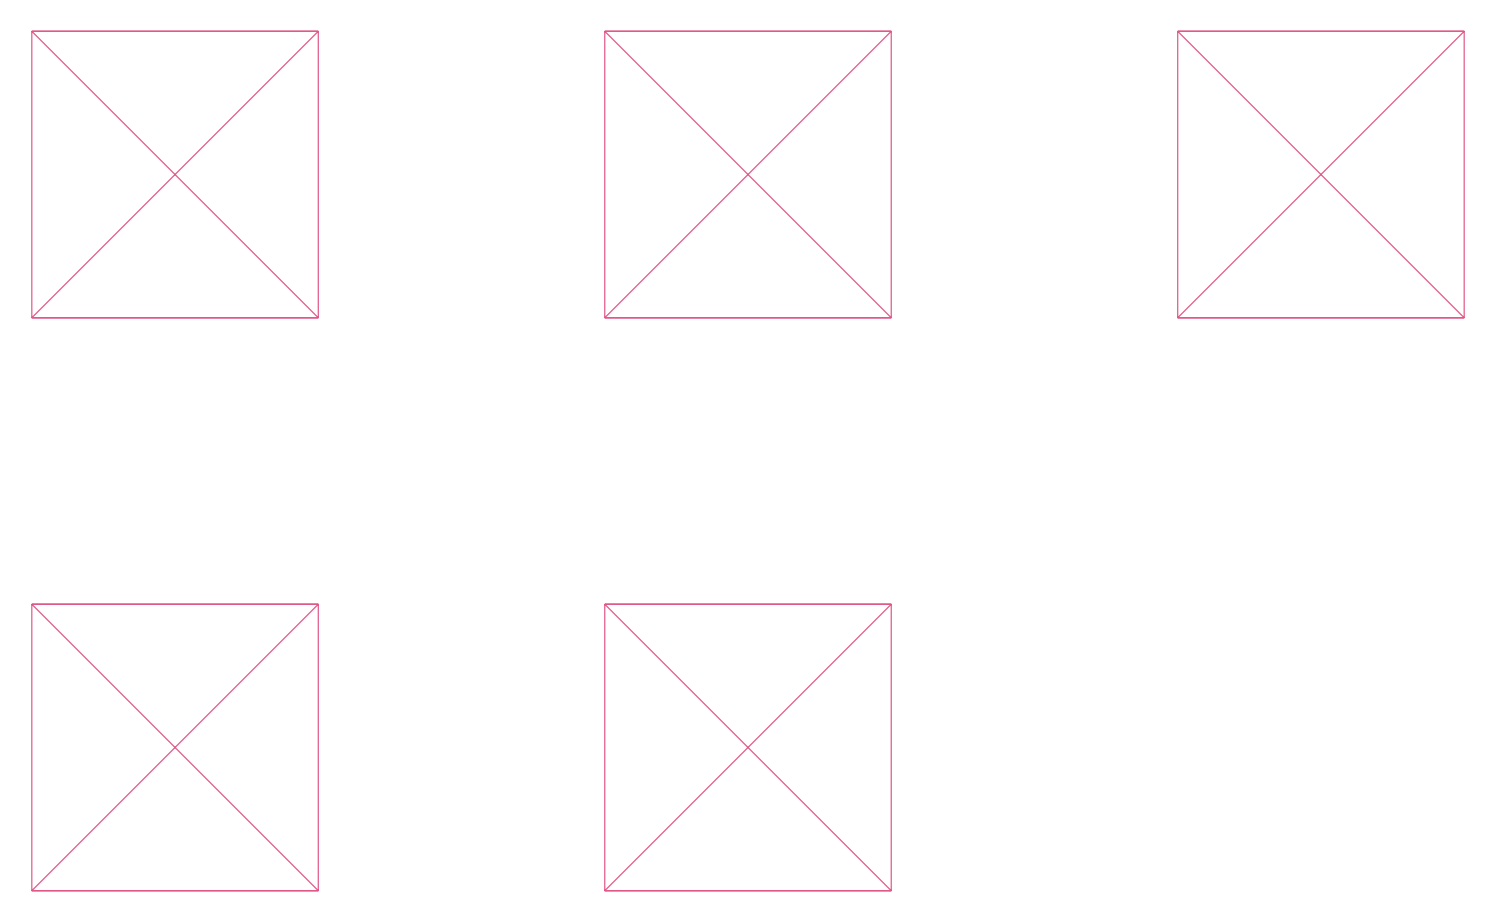
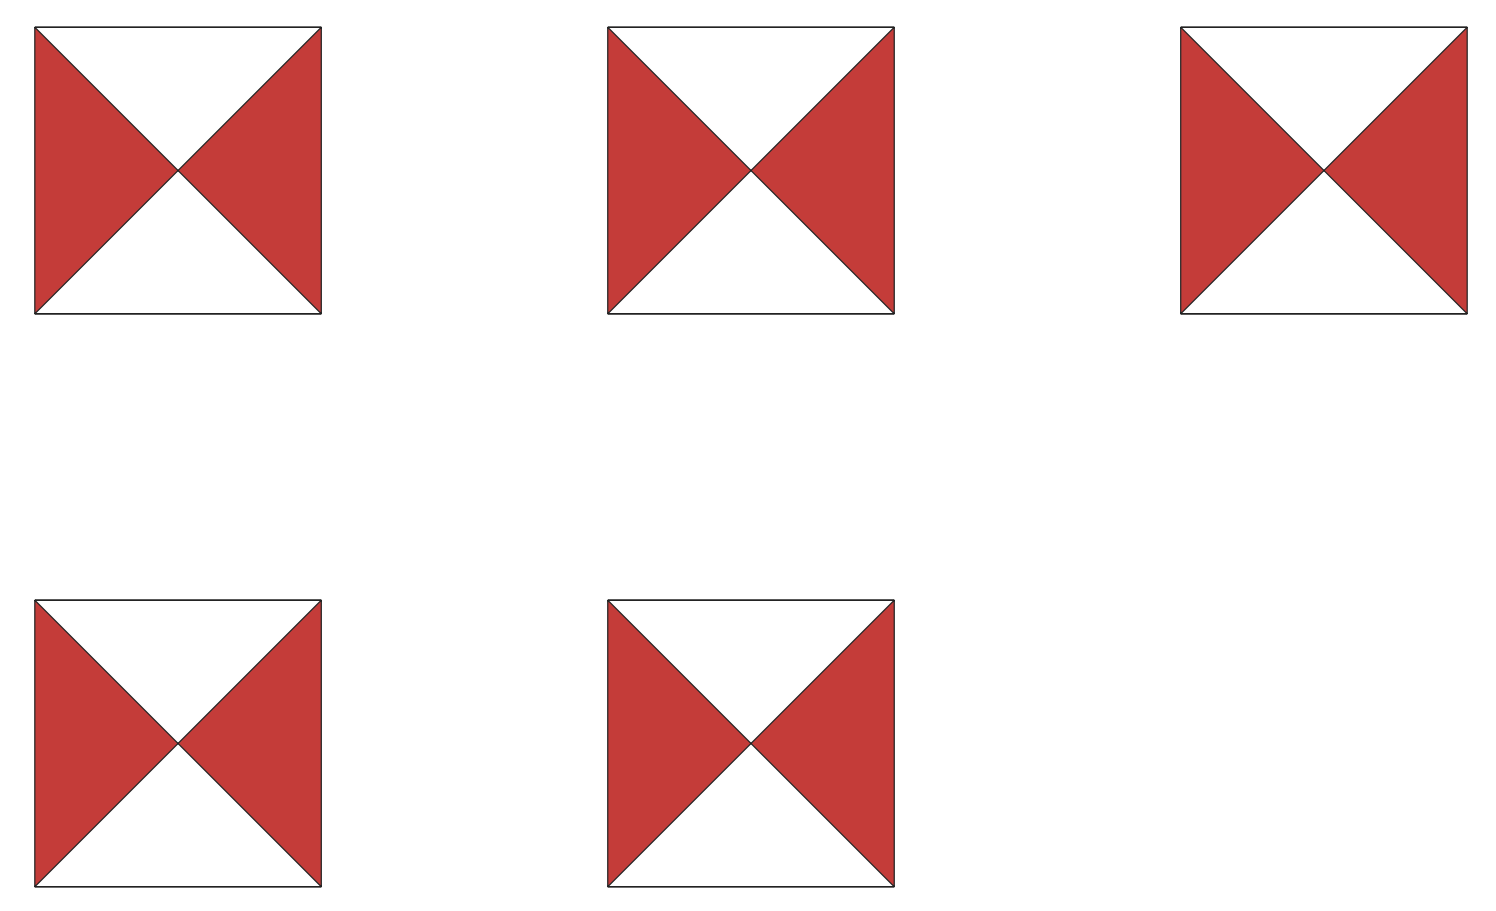
memperapihkan

diff --git a/1164058_wildankw/soal10.py b/1164058_wildankw/soal10.py
@@ -1,15 +1,15 @@
-import shapefile
-w=shapefile.Writer()
-w.shapeType
+import shapefile # Mengimport modul shape file
+w=shapefile.Writer() # Mendeklarasi variabel
+w.shapeType #Menjalankan perintah dari pendeklarasian variabel
 
-w.field("kolom1","C")
-w.field("kolom2","C")
+w.field("kolom1","C") # Membuat kolom dengan tipe data character
+w.field("kolom2","C") # Membuat kolom dengan tipe data character
 
-w.record("dan","satu")
-w.record("din","dua")
-w.record("dun","tiga")
-w.record("den","empat")
-w.record("don","lima")
+w.record("dan","satu") # Mengisi record ke kolom yang sudah di buat tadi
+w.record("din","dua") # Mengisi record ke kolom yang sudah di buat tadi
+w.record("dun","tiga") # Mengisi record ke kolom yang sudah di buat tadi
+w.record("den","empat") # Mengisi record ke kolom yang sudah di buat tadi
+w.record("don","lima") # Mengisi record ke kolom yang sudah di buat tadi
 
 
 w.poly(parts=[[
@@ -22,7 +22,7 @@ w.poly(parts=[[
 	[1,2],
 	[2,3],
 	[1,3]
-]],shapeType=shapefile.POLYLINE)
+]],shapeType=shapefile.POLYGON) # Membuat POLYGON
 
 w.poly(parts=[[
 	[3,3],
@@ -34,7 +34,7 @@ w.poly(parts=[[
 	[3,2],
 	[4,3],
 	[3,3]
-]],shapeType=shapefile.POLYLINE)
+]],shapeType=shapefile.POLYGON)  # Membuat POLYGON
 
 w.poly(parts=[[
 	[1,1],
@@ -46,7 +46,7 @@ w.poly(parts=[[
 	[1,0],
 	[2,1],
 	[1,1]
-]],shapeType=shapefile.POLYLINE)
+]],shapeType=shapefile.POLYGON)  # Membuat POLYGON
 
 w.poly(parts=[[
 	[3,1],
@@ -58,7 +58,7 @@ w.poly(parts=[[
 	[3,0],
 	[4,1],
 	[3,1]
-]],shapeType=shapefile.POLYLINE)
+]],shapeType=shapefile.POLYGON)  # Membuat POLYGON
 
 w.poly(parts=[[
 	[5,3],
@@ -70,8 +70,8 @@ w.poly(parts=[[
 	[5,2],
 	[6,3],
 	[5,3]
-]],shapeType=shapefile.POLYLINE)
+]],shapeType=shapefile.POLYGON)  # Membuat POLYGON
 
 
 
-w.save("soal10")
+w.save("soal10") # Untuk save menjadi shp file

diff --git a/1164058_wildankw/soal1.py b/1164058_wildankw/soal1.py
@@ -1,10 +1,14 @@
-import shapefile
-w=shapefile.Writer()
-w.shapeType
-w.field("kolom1","C")
-w.field("kolom2","C")
-w.record("ngek","satu")
-w.record("ngok","dua")
-w.point(1,1)
-w.point(2,2)
-w.save("soal1")
+import shapefile         # Mengimport modul shape file
+w=shapefile.Writer() 	 # Mendeklarasi variabel
+w.shapeType 			 # Menjalankan perintah dari pendeklarasian variabel
+
+w.field("kolom1","C")    # Membuat kolom dengan tipe data character
+w.field("kolom2","C")    # Membuat kolom dengan tipe data character
+
+w.record("ngek","satu")  # Mengisi record ke kolom yang sudah di buat tadi
+w.record("ngok","dua")   # Mengisi record ke kolom yang sudah di buat tadi
+
+w.point(1,1) 			 # Membuat point/titik 
+w.point(2,2) 		     # Membuat point/titik 
+
+w.save("soal1") 		 # Untuk save menjadi shp file
